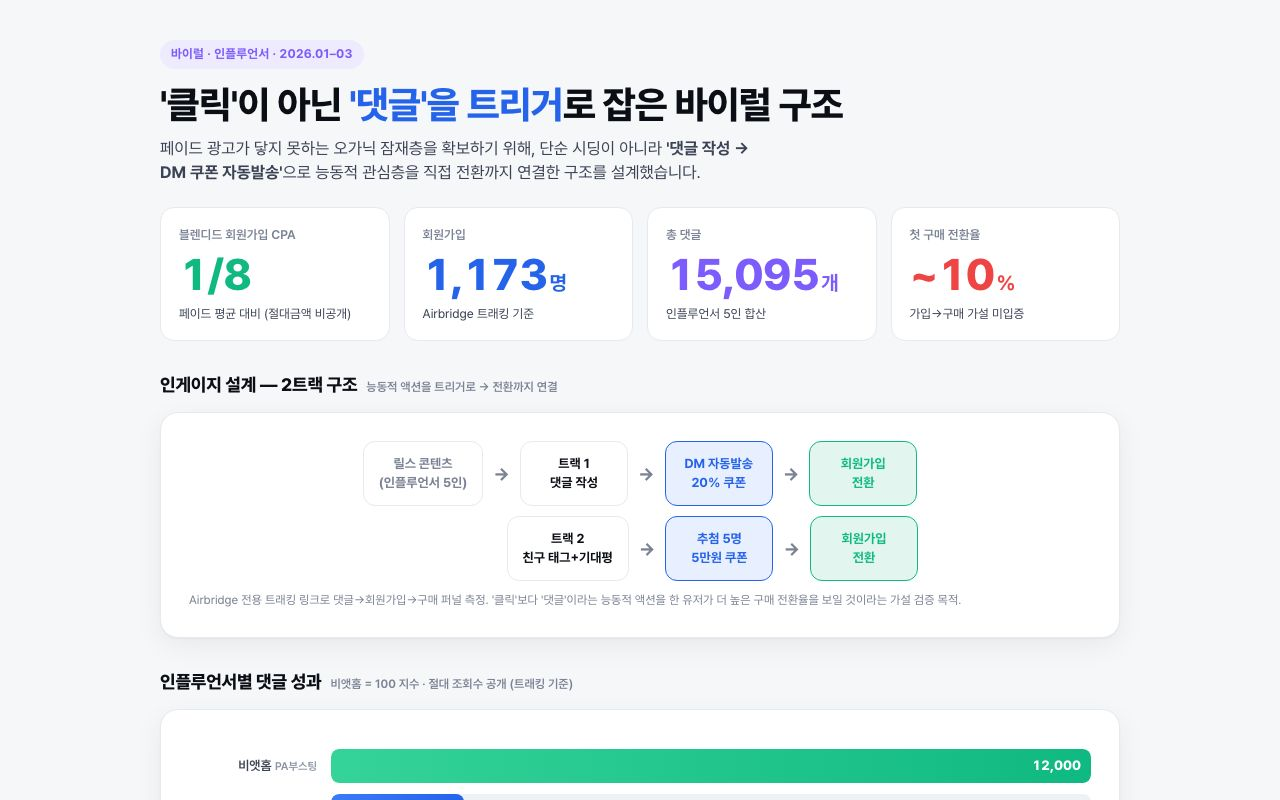
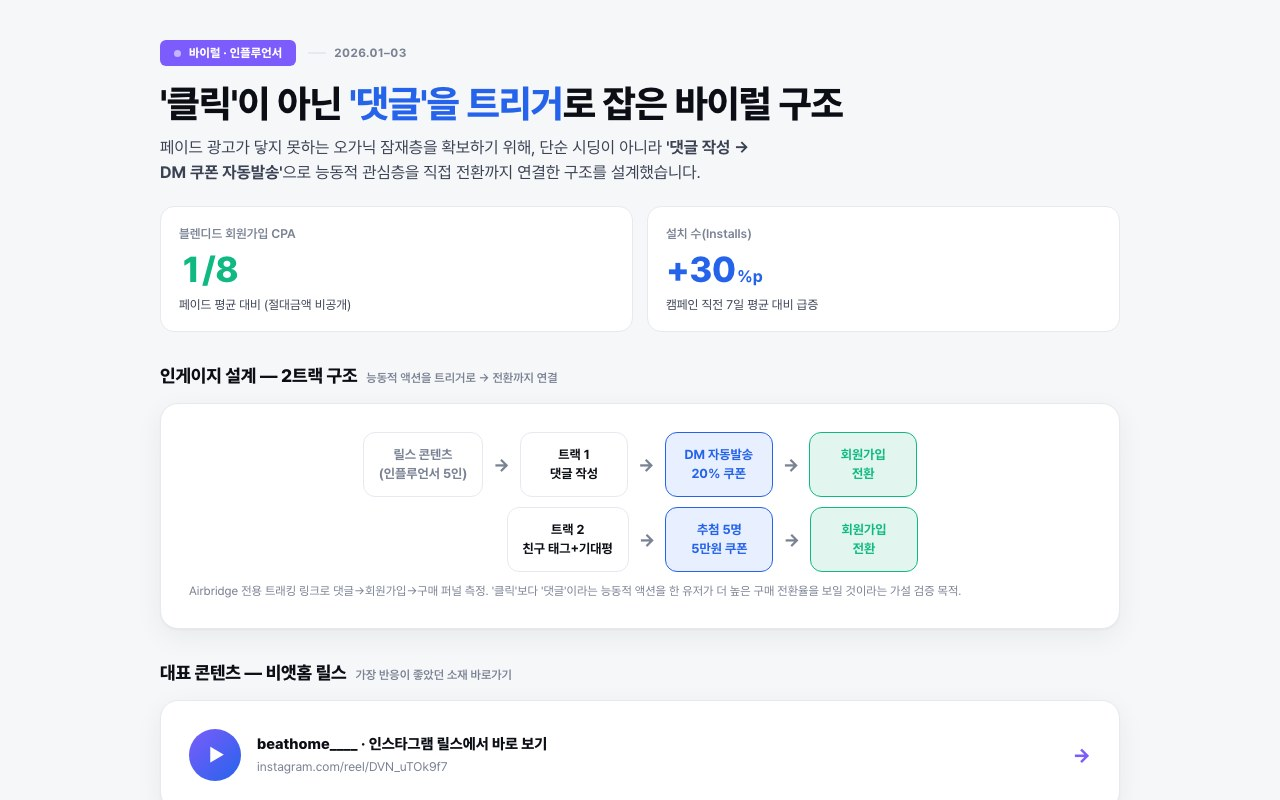
DM 바이럴 대시보드: 퍼널 지표 대신 설치수 D-7 대비 증가율을 메인 지표로, 릴스 바로가기 추가

diff --git a/p/influencer-dm.html b/p/influencer-dm.html
@@ -11,11 +11,9 @@
   <p class="sub">페이드 광고가 닿지 못하는 오가닉 잠재층을 확보하기 위해, 단순 시딩이 아니라 <b>'댓글 작성 → DM 쿠폰 자동발송'</b>으로 능동적 관심층을 직접 전환까지 연결한 구조를 설계했습니다.</p>
 </div>
 
-<div class="grid g4">
+<div class="grid g2">
   <div class="stat"><div class="lbl">블렌디드 회원가입 CPA</div><div class="num g">1/8<span class="u"></span></div><div class="cap">페이드 평균 대비 (절대금액 비공개)</div></div>
-  <div class="stat"><div class="lbl">회원가입</div><div class="num b">1,173<span class="u">명</span></div><div class="cap">Airbridge 트래킹 기준</div></div>
-  <div class="stat"><div class="lbl">총 댓글</div><div class="num v">15,095<span class="u">개</span></div><div class="cap">인플루언서 5인 합산</div></div>
-  <div class="stat"><div class="lbl">첫 구매 전환율</div><div class="num r">~10<span class="u">%</span></div><div class="cap">가입→구매 가설 미입증</div></div>
+  <div class="stat"><div class="lbl">설치 수(Installs)</div><div class="num b">+30<span class="u">%p</span></div><div class="cap">캠페인 직전 7일 평균 대비 급증</div></div>
 </div>
 
 <div class="sect"><h2>인게이지 설계 — 2트랙 구조</h2><span class="tag">능동적 액션을 트리거로 → 전환까지 연결</span></div>
@@ -41,15 +39,15 @@
   <p class="note">Airbridge 전용 트래킹 링크로 댓글→회원가입→구매 퍼널 측정. '클릭'보다 '댓글'이라는 능동적 액션을 한 유저가 더 높은 구매 전환율을 보일 것이라는 가설 검증 목적.</p>
 </div>
 
-<div class="sect"><h2>인플루언서별 댓글 성과</h2><span class="tag">비앳홈 = 100 지수 · 절대 조회수 공개 (트래킹 기준)</span></div>
-<div class="card pad chart">
-  <div class="bar-row"><div class="name">비앳홈 <span style="font-size:11px;color:#8A93A4">PA부스팅</span></div><div class="bar-track"><div class="bar-fill bf-green" style="width:100%">12,000</div></div></div>
-  <div class="bar-row"><div class="name">호하우스 <span style="font-size:11px;color:#8A93A4">오가닉</span></div><div class="bar-track"><div class="bar-fill bf-blue" style="width:17.5%">2,100</div></div></div>
-  <div class="bar-row"><div class="name">살림을더하다 <span style="font-size:11px;color:#8A93A4">PA부스팅</span></div><div class="bar-track"><div class="bar-fill bf-blue" style="width:6.2%">744</div></div></div>
-  <div class="bar-row"><div class="name">링홈 <span style="font-size:11px;color:#8A93A4">오가닉</span></div><div class="bar-track"><div class="bar-fill bf-gray" style="width:1.3%">152</div></div></div>
-  <div class="bar-row"><div class="name">아임박선생 <span style="font-size:11px;color:#8A93A4">오가닉</span></div><div class="bar-track"><div class="bar-fill bf-gray" style="width:0.8%">99</div></div></div>
-  <p class="note"><span class="dot" style="background:#10B981"></span>PA 부스팅 집행 &nbsp; <span class="dot" style="background:#2563EB"></span>오가닉 우수 &nbsp; <span class="dot" style="background:#8A93A4"></span>오가닉 저조 &nbsp;·&nbsp; 성과 좋은 콘텐츠(비앳홈·살림을더하다) → PA 재활용 부스팅으로 2차 효율 확보</p>
-</div>
+<div class="sect"><h2>대표 콘텐츠 — 비앳홈 릴스</h2><span class="tag">가장 반응이 좋았던 소재 바로가기</span></div>
+<a class="card pad reel-link" href="https://www.instagram.com/reel/DVN_uTOk9f7/?utm_source=ig_web_copy_link&igsh=MzRlODBiNWFlZA==" target="_blank" rel="noopener">
+  <div class="reel-ic">▶</div>
+  <div class="reel-tx">
+    <div class="reel-t">beathome____ · 인스타그램 릴스에서 바로 보기</div>
+    <div class="reel-u">instagram.com/reel/DVN_uTOk9f7</div>
+  </div>
+  <div class="reel-arrow">→</div>
+</a>
 
 <div class="sect"><h2>어떻게 실행했나 — 3단계 흐름</h2><span class="tag">레퍼런스 발굴 → 피벗 → 2트랙 설계 → 트래킹</span></div>
 <div class="steps s3">

diff --git a/assets/style.css b/assets/style.css
@@ -152,3 +152,13 @@ a.home{color:var(--blue);text-decoration:none;font-weight:700}
 /* 노트 */
 .note{font-size:12px;color:var(--ink-3);margin-top:10px}
 .dot{display:inline-block;width:9px;height:9px;border-radius:3px;margin-right:6px;vertical-align:middle}
+
+/* 릴스/영상 바로가기 */
+.reel-link{display:flex;align-items:center;gap:16px;text-decoration:none;color:inherit;transition:box-shadow .15s,transform .15s}
+.reel-link:hover{box-shadow:0 4px 16px rgba(124,92,252,.18);transform:translateY(-1px)}
+.reel-ic{flex-shrink:0;width:52px;height:52px;border-radius:50%;background:linear-gradient(135deg,#7C5CFC,#2563EB);
+  color:#fff;display:flex;align-items:center;justify-content:center;font-size:18px;padding-left:3px}
+.reel-tx{flex:1;min-width:0}
+.reel-t{font-size:15px;font-weight:800;color:var(--ink)}
+.reel-u{font-size:12.5px;color:var(--ink-3);margin-top:3px}
+.reel-arrow{font-size:20px;font-weight:800;color:var(--violet);flex-shrink:0}